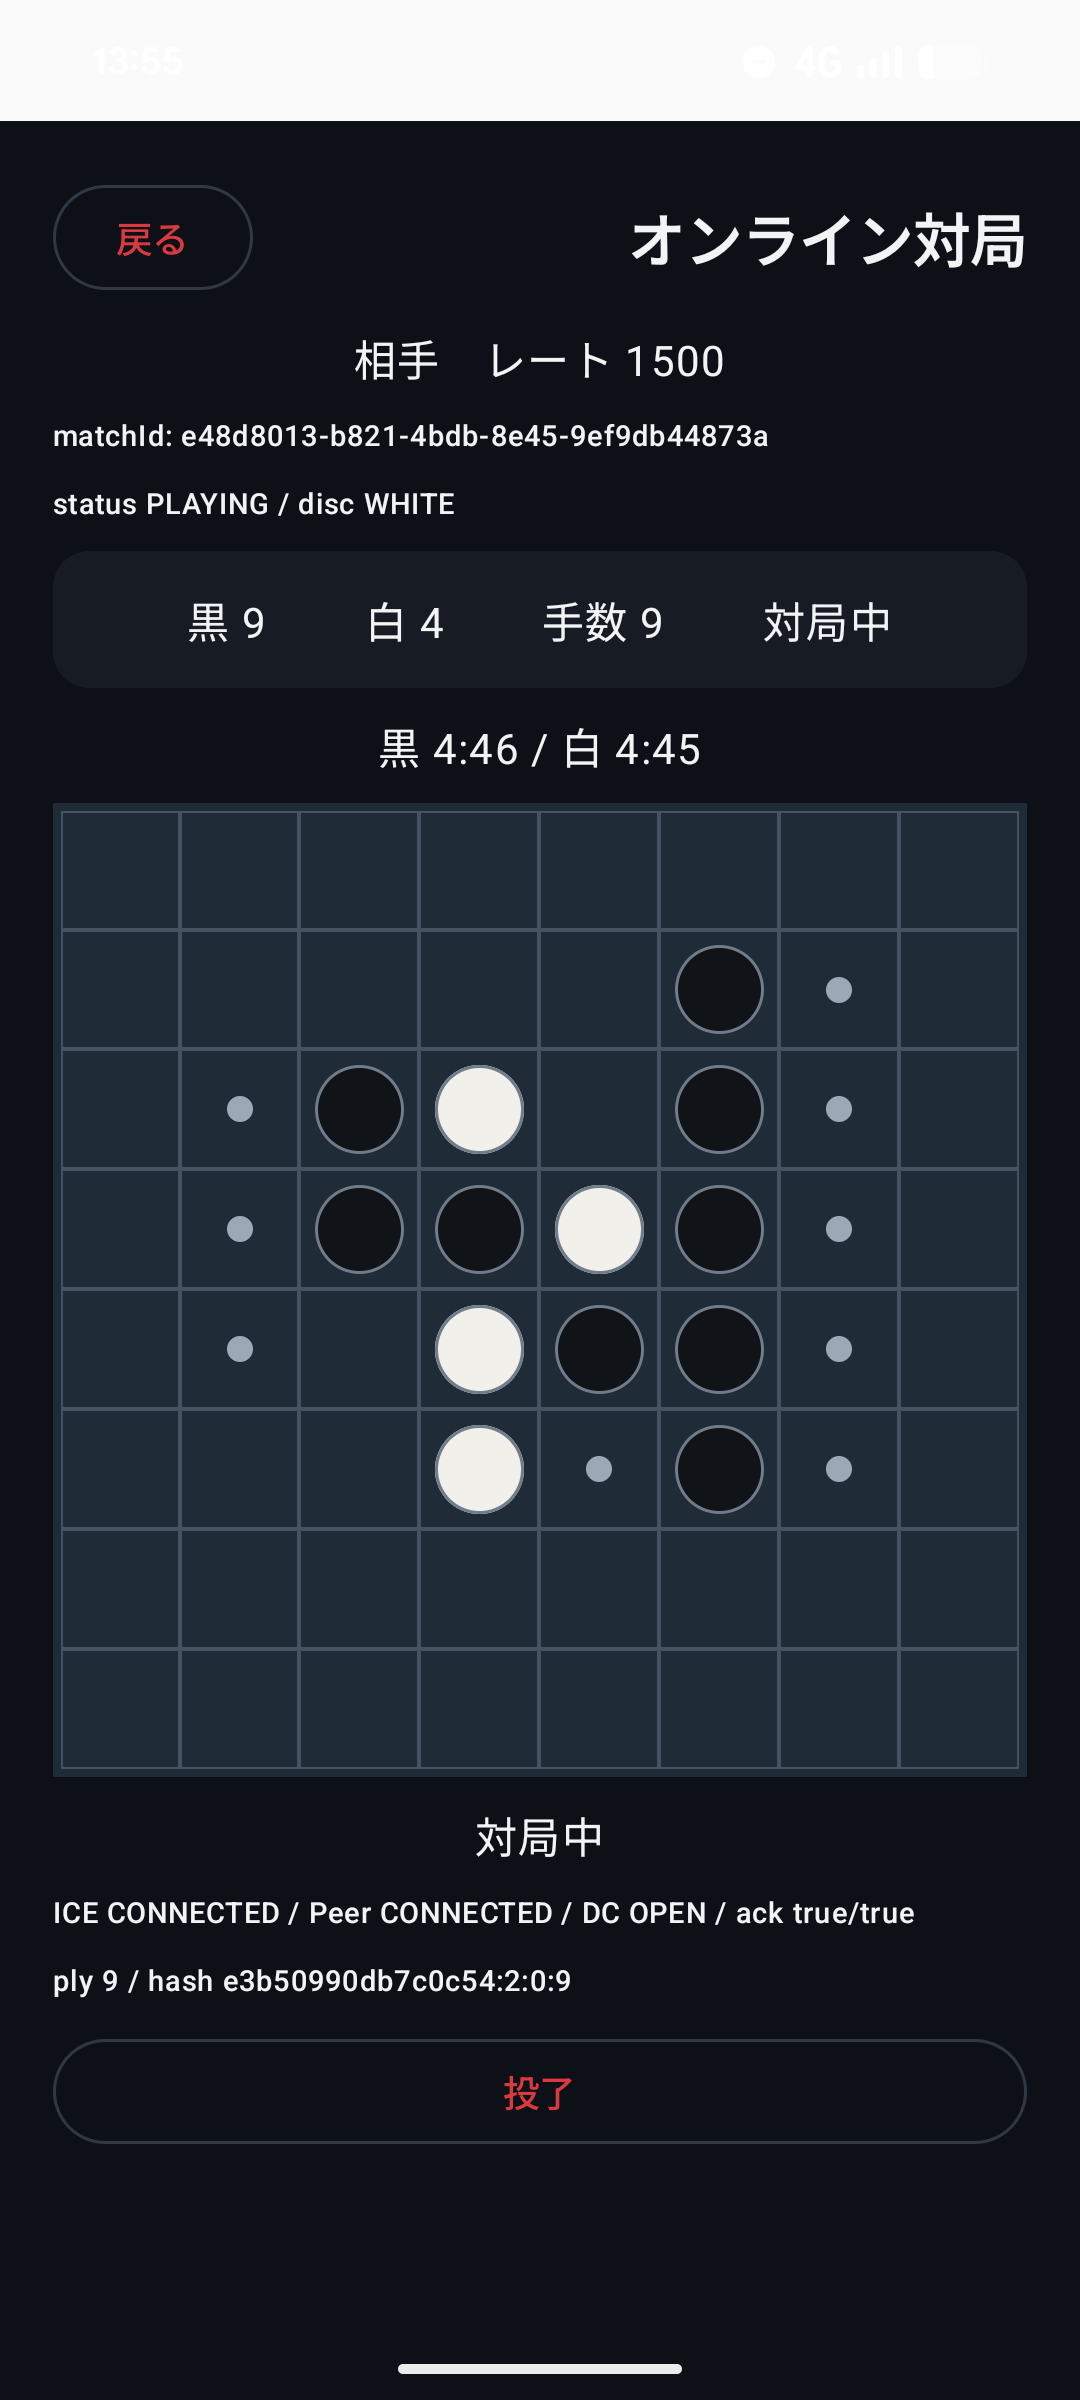
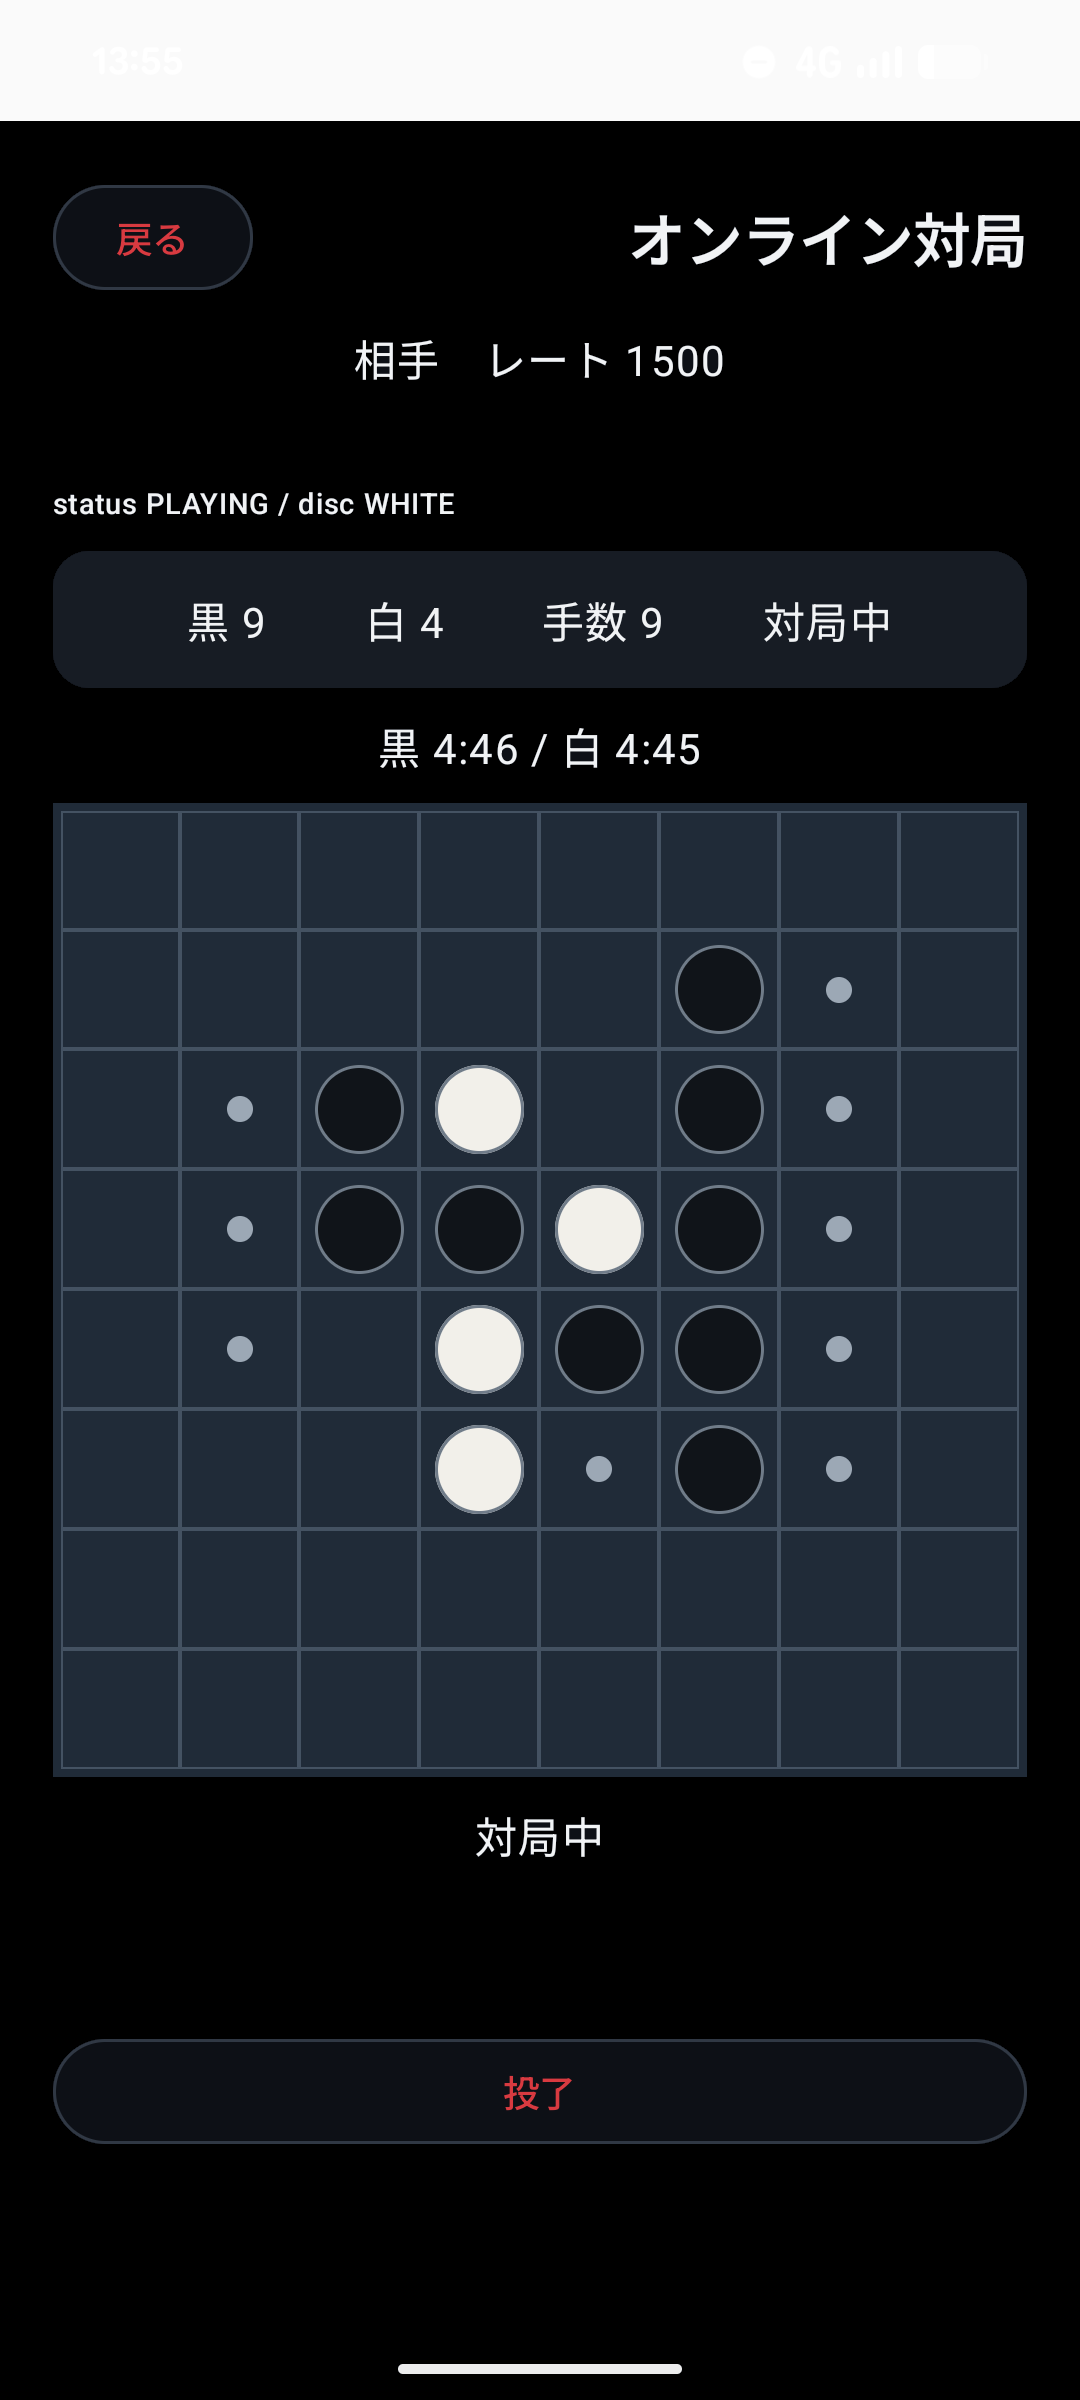
Add clean online match store screenshot

diff --git a/store-assets/README.md b/store-assets/README.md
@@ -14,9 +14,9 @@
 
 Google公式要件に合わせ、アイコンは512×512、Feature graphicは1024×500、スクリーンショットは最小辺の2倍以内に整形しています。いずれも実装済み画面を元にしています。
 
-## 今回アップロードしないもの
+## オンライン対局スクリーンショット
 
-`screenshots/screen-online-match.png` は元画像として保持していますが、画面内に `matchId`、ICE／Peer／DataChannel接続診断、対局状態の内部表示が残っているため、Store screenshotには使用しません。公開用には、デバッグ診断を表示しないrelease画面を再撮影してください。
+`screenshots/screen-online-match.png` はmatchIdとICE／Peer／DataChannel接続診断を除去した最新版です。`upload-ready/phone-screenshot-04-online-match-1080x2160.png` にPlay用サイズへ整形したものを置いています。
 
 Feature graphicには「COMING SOON」の表記が残っています。現行機能として誤解を招かないかをOWNERが確認してから使用してください。
 
